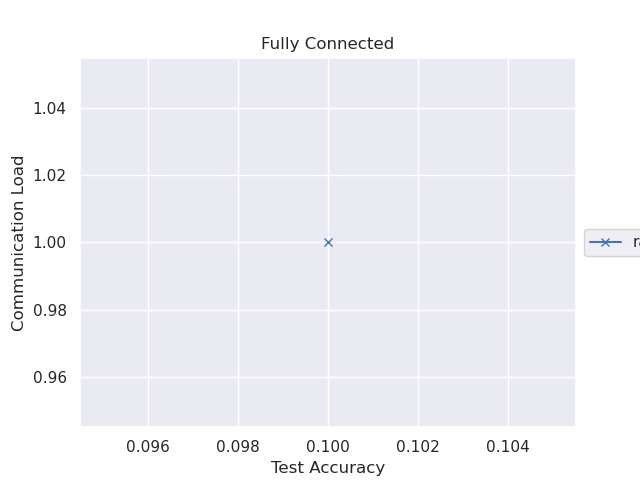
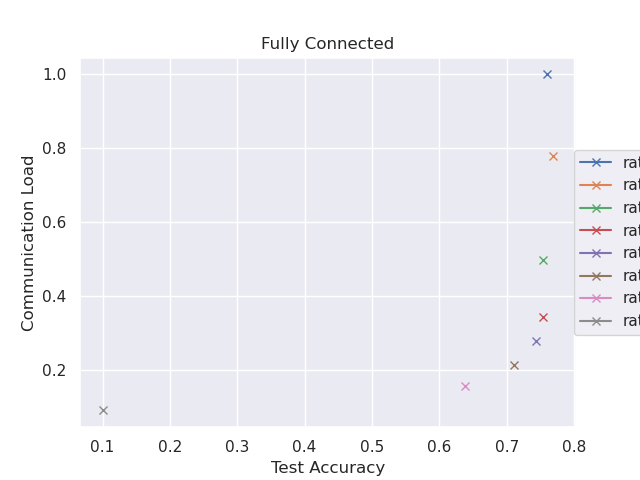
finsished delta sweep for cifar10

diff --git a/experiments/cluster/cifar/cifar_jobs.py b/experiments/cluster/cifar/cifar_jobs.py
@@ -1,0 +1,115 @@
+from typing import List
+import torch
+import torch.nn as nn
+from torchvision import datasets, transforms
+from torch.utils.data import DataLoader
+from admm.models import Cifar10CNN
+from admm.agents import FedLearn, FedConsensus
+from admm.servers import FedAgg, EventADMM
+from admm.utils import average_params
+import matplotlib.pyplot as plt
+import numpy as np
+
+
+class FedLearnJob:
+
+    def __init__(self, train_loaders: List[DataLoader], test_loader: DataLoader, val_loader: DataLoader,
+                t_max: int, lr: float, prox: bool, device: str):
+        self.train_loaders = train_loaders
+        self.test_loader = test_loader
+        self.val_loader = val_loader
+        self.t_max = t_max
+        self.lr = lr
+        self.rho = 0.01 if prox else 0
+        self.device = device
+        self.prox = prox
+        print(f'Prox: {self.prox}')
+
+    def run(self):
+        rates = np.arange(start=0.1, stop=0.6, step=0.1)
+        rates = [*rates.tolist(), 1]
+        print(rates)
+
+        self.agents = []
+        self.acc_per_rate = np.zeros((len(rates), self.t_max))
+        self.rate_per_rate = np.zeros((len(rates), self.t_max))
+        self.loads = []
+        self.test_accs = []
+
+        for i, rate in enumerate(rates):
+            for loader in self.train_loaders:
+                torch.manual_seed(78)
+                model = Cifar10CNN()
+                self.agents.append(
+                    FedLearn(
+                        rho=self.rho,
+                        loss=nn.CrossEntropyLoss(),
+                        model=model,
+                        train_loader=loader,
+                        epochs=5,
+                        device=self.device,
+                        lr=self.lr
+                    )
+                )
+            
+            torch.manual_seed(78)
+            global_model = Cifar10CNN()
+            server = FedAgg(
+                clients=self.agents, 
+                t_max=self.t_max, 
+                model=global_model, 
+                device=self.device,
+                C=rate
+            )
+
+            server.spin(loader=self.val_loader)
+        
+            self.acc_per_rate[i,:] = server.val_accs
+            self.rate_per_rate[i,:] = server.rates
+            load = sum(self.rate_per_rate[i,:])/self.t_max
+            acc = server.validate_global(loader=self.test_loader)
+            print(f'Test accuracy for rate {rate} = {acc}')
+            self.loads.append(load)
+            self.test_accs.append(acc.cpu().numpy())
+
+        image_dir = './images/FedProx/' if self.prox else './images/FedAVG/'
+        figure_data_dir = './figure_data/FedProx/' if self.prox else './figure_data/FedAVG/'
+
+        np.save(file=figure_data_dir+'rates_per_rate', arr=self.rate_per_rate)
+        np.save(file=figure_data_dir+'accs_per_rate', arr=self.acc_per_rate)
+        np.save(file=figure_data_dir+'loads_per_rate', arr=self.loads)
+        np.save(file=figure_data_dir+'rates', arr=rates)
+
+        T = range(self.t_max)
+        # Plot accuracies
+        for acc, rate in zip(self.acc_per_rate, rates):
+            plt.plot(T, acc, label=f'rate={rate:.2f}')
+        plt.legend(loc='center right', bbox_to_anchor=(1.4, 0.5))
+        plt.xlabel('Time Step')
+        plt.ylabel('Accuracy')
+        plt.title('Validation Set Accuracy')
+        plt.savefig(image_dir+'fc_val.png')
+        plt.cla()
+        plt.clf()
+
+        for load, acc, rate in zip(self.loads, self.test_accs, rates):
+            plt.plot(acc, load, label=f'rate={rate:.2f}', marker='x')
+        plt.legend(loc='center right', bbox_to_anchor=(1.3, 0.5))
+        plt.xlabel('Test Accuracy')
+        plt.xlim([0, 1])
+        plt.ylim([0,1.1])
+        plt.ylabel('Communication Load')
+        plt.title('Fully Connected')
+        plt.savefig(image_dir+'fc_test_load.png')
+        plt.cla()
+        plt.clf()
+
+        for rate, r in zip(self.rate_per_rate, rates):
+            plt.plot(T, rate, label=f'rate={r:.2f}')
+        plt.legend(loc='center right', bbox_to_anchor=(1.4, 0.5))
+        plt.xlabel('Time Step')
+        plt.ylabel('Rate')
+        plt.title('Communication Rate - Fully Connected')
+        plt.savefig(image_dir+'fc_comm_rate.png')
+        plt.cla()
+        plt.clf()

diff --git a/experiments/cluster/cifar/cifar_federated.py b/experiments/cluster/cifar/cifar_federated.py
@@ -116,17 +116,18 @@ if __name__ == '__main__':
 
     # deltas = list(range(0,32,4))
     # deltas = [8,10,14]
+    torch.autograd.detect_anomaly(True)
     deltas = [0]
-    lr = 0.15
+    lr = 0.1
     t_max = 200
-    rho = 0.01
+    rho = 0.01/num_clients
     acc_per_delta = np.zeros((len(deltas), t_max))
     rate_per_delta = np.zeros((len(deltas), t_max))
     loads = []
     test_accs = []
     gamma = 1e-5
     global_weight = rho/(rho*num_clients - 2*gamma)
-    print(f'Test with scheduler stepping after each 5 epochs for each client')
+    print(f'Test with scheduler, rescaling rho per client, no momentum and softmax')
     total_samples = sum([len(loader.dataset) for loader in trainloaders])
     for i, delta in enumerate(deltas):
         agents = []
@@ -139,7 +140,7 @@ if __name__ == '__main__':
                 FedConsensus(
                     N=len(trainloaders),
                     delta=delta,
-                    rho=rho,
+                    rho=rho/data_ratio,
                     model=model,
                     loss=nn.CrossEntropyLoss(),
                     train_loader=loader,
@@ -187,7 +188,7 @@ if __name__ == '__main__':
     plt.xlabel('Time Step')
     plt.ylabel('Accuracy')
     plt.title('Validation Set Accuracy - Fully Connected - niid')
-    plt.savefig('./images/FedEvent/fc_val_100.png')
+    plt.savefig('./images/FedEvent/fc_val_100_2.png')
     plt.cla()
     plt.clf()
 
@@ -197,7 +198,7 @@ if __name__ == '__main__':
     plt.xlabel('Time Step')
     plt.ylabel('Rate')
     plt.title('Communication Rate - Fully Connected')
-    plt.savefig('./images/FedEvent/fc_comm_rate_100.png')
+    plt.savefig('./images/FedEvent/fc_comm_rate_100_2.png')
     plt.cla()
     plt.clf()
 
@@ -207,12 +208,12 @@ if __name__ == '__main__':
     plt.xlabel('Test Accuracy')
     plt.ylabel('Communication Load')
     plt.title('Fully Connected')
-    plt.savefig('./images/FedEvent/fc_test_load_100.png')
+    plt.savefig('./images/FedEvent/fc_test_load_100_2.png')
     plt.cla()
     plt.clf()
     
     # Save plotting data
-    np.save(file='figure_data/FedEvent/rates_per_delta_100', arr=rate_per_delta)
-    np.save(file='figure_data/FedEvent/accs_per_delta_100', arr=acc_per_delta)
-    np.save(file='figure_data/FedEvent/loads_per_delta_100', arr=loads)
-    np.save(file='figure_data/FedEvent/deltas_100', arr=deltas)
+    np.save(file='figure_data/FedEvent/rates_per_delta_100_2', arr=rate_per_delta)
+    np.save(file='figure_data/FedEvent/accs_per_delta_100_2', arr=acc_per_delta)
+    np.save(file='figure_data/FedEvent/loads_per_delta_100_2', arr=loads)
+    np.save(file='figure_data/FedEvent/deltas_100_2', arr=deltas)

diff --git a/experiments/cluster/cifar/main.py b/experiments/cluster/cifar/main.py
@@ -13,6 +13,7 @@ from admm.models import Cifar10CNN, Model2
 from admm.utils import average_params
 from admm.data import partition_data, split_dataset
 from admm.moon_dataset import get_dataloader, partition_data
+from cifar_jobs import FedLearnJob
 
 sns.set_theme()
 num_gpus = 1
@@ -49,10 +50,10 @@ if __name__ == '__main__':
     )
     trainloaders = []
     for idx in range(num_clients):
+        torch.manual_seed(78)
         train_dl, _, _, _ = get_dataloader(
             './data/cifar10', batch_size, 32, net_dataidx_map[idx]
         )
-
         trainloaders.append(train_dl)
     trainsets = [loader.dataset for loader in trainloaders]
     
@@ -63,14 +64,27 @@ if __name__ == '__main__':
             labels[int(target.item())] += 1
         print(f'Dataset {i} distribution: {labels} - num_samples = {labels.sum()}')
 
-    # labels = np.zeros(10)
-    # dummy_loader = DataLoader(val_dataset, batch_size=1)
-    # for data, target in dummy_loader:
-    #     labels[int(target.item())] += 1
-    # print(f'Validation dataset {i} distribution: {labels} - num_samples = {labels.sum()}')
-
     labels = np.zeros(10)
     dummy_loader = DataLoader(test_global_dl.dataset, batch_size=1)
     for data, target in dummy_loader:
         labels[int(target.item())] += 1
     print(f'Validation dataset {i} distribution: {labels} - num_samples = {labels.sum()}')
+
+
+    """
+    Run FedAVG and FedProx Experiments
+    """
+    t_max = 100
+    num_clients = 10
+
+    prox_args = {
+        'train_loaders':trainloaders, 'test_loader':test_global_dl, 'val_loader': test_global_dl,
+        't_max':t_max, 'lr':0.01, 'device':device, 'prox':True
+    }
+    avg_args = prox_args.copy()
+    avg_args['prox'] = False
+    args = (prox_args, avg_args)
+
+    # for arg in args:
+    job = FedLearnJob(**prox_args)
+    job.run()

diff --git a/admm/agents.py b/admm/agents.py
@@ -31,13 +31,13 @@ class FedConsensus:
         self.lam = [torch.zeros(param.shape).to(self.device) for param in self.model.parameters()]
         # self.optimizer = torch.optim.Adam(self.model.parameters(), self.lr)
         self.train_loader = train_loader
-        self.optimizer = torch.optim.SGD(self.model.parameters(), lr=self.lr)
+        self.optimizer = torch.optim.SGD(self.model.parameters(), lr=self.lr, momentum=0.9)
         self.criterion = loss
         self.epochs = epochs
         self.data_ratio = data_ratio
         # Get number of params in model
         self.total_params = sum(param.numel() for param in self.model.parameters())
-        self.stepper = StepLR(optimizer=self.optimizer, gamma=0.95, step_size=1)
+        # self.stepper = StepLR(optimizer=self.optimizer, gamma=0.975, step_size=1)
 
     def primal_update(self) -> None:
         
@@ -52,7 +52,7 @@ class FedConsensus:
                 self.optimizer.zero_grad()
                 loss.backward()
                 self.optimizer.step() 
-        self.stepper.step()
+        # self.stepper.step()
         # check for how much paramters changed
         delta = 0
         for old_param, updated_param, dual_param in zip(self.last_communicated, self.model.parameters(), self.lam):

diff --git a/experiments/cluster/mnist/main.py b/experiments/cluster/mnist/main.py
@@ -98,17 +98,17 @@ if __name__ == '__main__':
     job = FedEventJob(**event_args)
     job.run()
     
-    # prox_args = {
-    #     'train_loaders':train_loaders, 'test_loader':test_loader, 'val_loader': val_loader,
-    #     't_max':t_max, 'lr':0.01, 'device':device, 'prox':True
-    # }
-    # avg_args = prox_args.copy()
-    # avg_args['prox'] = False
-    # args = (prox_args, avg_args)
+    prox_args = {
+        'train_loaders':train_loaders, 'test_loader':test_loader, 'val_loader': val_loader,
+        't_max':t_max, 'lr':0.01, 'device':device, 'prox':True
+    }
+    avg_args = prox_args.copy()
+    avg_args['prox'] = False
+    args = (prox_args, avg_args)
 
-    # for arg in args:
-    #     job = FedLearnJob(**arg)
-    #     job.run()
+    for arg in args:
+        job = FedLearnJob(**arg)
+        job.run()
 
     """
     Run FedEvent Exxperiments

diff --git a/admm/servers.py b/admm/servers.py
@@ -10,6 +10,7 @@ import statistics
 import subprocess
 import re
 from admm.utils import sublist_by_fraction
+import math
 
     
 class EventADMM:
@@ -39,6 +40,12 @@ class EventADMM:
                 delta_description = f', min Delta: {min(D):.8f}, max Delta: {max(D):.8f}, Median: {statistics.median(D):.8f}'
             if self.device == 'cuda': torch.cuda.synchronize()
             
+            for i, d in enumerate(D):
+                if d <= 0 or math.isnan(d): 
+                    print(f'Last communicated = {self.agents[i].last_communicated}\n \
+                          Params = {self.agents[i].copy_params(self.agents[i].model.parameters())}')
+                    raise Exception(f'Agent {i} has delta {d}')
+                
             # Residual update in the case of communication
             C = []
             for agent in self.agents:

diff --git a/admm/models.py b/admm/models.py
@@ -56,7 +56,9 @@ class Cifar10CNN(nn.Module):
     
     @torch.autocast(device_type="cuda")
     def forward(self, xb):
-        return self.network(xb)
+        logits = self.network(xb)
+        probs = torch.nn.functional.softmax(logits, dim=1)
+        return probs
 
 class MNistCNN(nn.Module):
 
